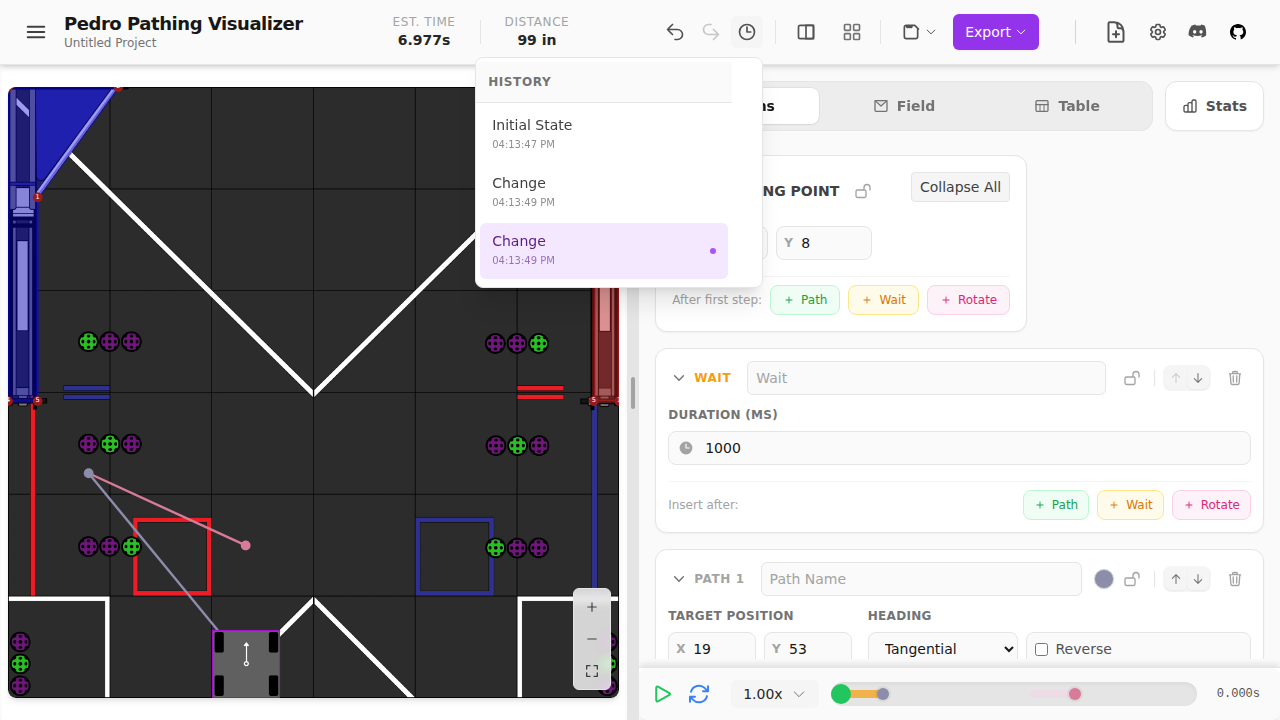
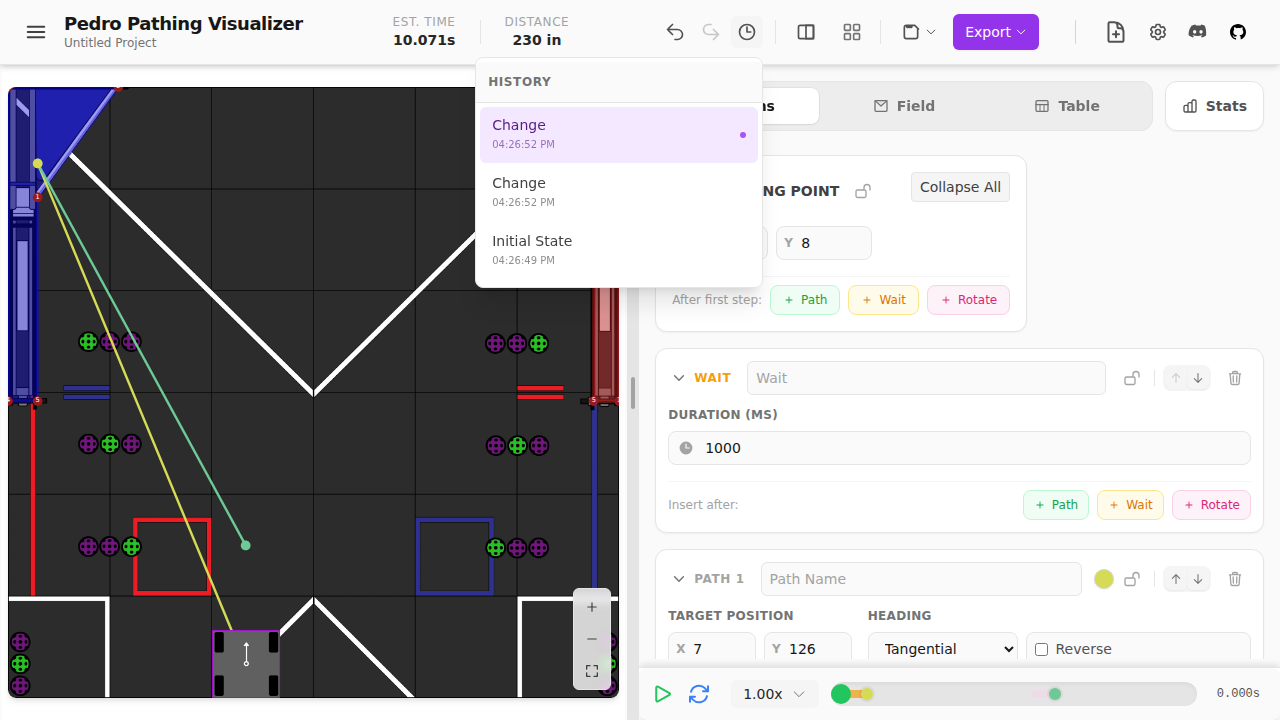
✨ Feature: History Dropdown & Contextual Undo/Redo
- Added History dropdown to Navbar with reversed chronological order (Newest Top)
- Added contextual descriptions to all history entries (e.g., "Moved Path 2", "Renamed Wait", "Add Path")
- Refactored HistoryList component for better UX
- Cleaned up bare `recordChange()` calls across the codebase

diff --git a/src/lib/components/history/HistoryList.svelte b/src/lib/components/history/HistoryList.svelte
@@ -21,7 +21,7 @@
 
   let listContainer: HTMLDivElement;
 
-  // Scroll to bottom when history changes
+  // Scroll to current when history changes
   $: if ($historyStore && listContainer) {
     tick().then(() => {
       const current = document.getElementById("history-current");
@@ -32,7 +32,7 @@
   }
 </script>
 
-<div class="flex flex-col h-full max-h-[400px] w-64">
+<div class="flex flex-col h-full max-h-[400px] w-full">
   <div class="p-3 border-b border-neutral-200 dark:border-neutral-700 bg-neutral-50 dark:bg-neutral-800">
     <h3 class="text-xs font-semibold text-neutral-500 dark:text-neutral-400 uppercase tracking-wider">
       History
@@ -44,9 +44,46 @@
     bind:this={listContainer}
   >
     {#if $historyStore}
-      <!-- PAST (Undo Stack) -->
-      {#each $historyStore.undoStack as entry, i}
-        {@const isActive = i === $historyStore.undoStack.length - 1}
+      <!-- FUTURE (Redo Stack) - Reversed to show [Oldest Future ... Newest Future] so Newest is bottom of this section?
+           Wait, stack is [C, B] (B is newer). We want C (Future), B (Future).
+           If we reverse redoStack, we get [B, C].
+           If user wants "Reverse Order" (Newest Top), we want:
+           Future B (Next redo)
+           Future C (Later redo)
+           Current A
+           Past...
+
+           redoStack has "most recently undone" at the END (top of stack).
+           So redoStack.pop() gives B.
+           So B is the "closest" future.
+           We want B to be just above A.
+
+           If list order is Newest at Top:
+           Future C
+           Future B
+           Current A
+           Past ...
+
+           redoStack: [C, B].
+           So we iterate redoStack (C, B).
+      -->
+      {#each $historyStore.redoStack as entry}
+        <button
+          class="w-full text-left px-3 py-2 rounded-md text-sm flex items-center justify-between group transition-colors hover:bg-neutral-100 dark:hover:bg-neutral-700 text-neutral-400 dark:text-neutral-500 opacity-70"
+          on:click={() => onJumpTo(entry)}
+        >
+          <div class="flex flex-col truncate min-w-0 flex-1">
+            <span class="truncate">{entry.description}</span>
+            <span class="text-[10px] opacity-60">{formatTime(entry.timestamp)}</span>
+          </div>
+        </button>
+      {/each}
+
+      <!-- PAST (Undo Stack) - Reversed so Current is Top -->
+      <!-- undoStack: [Initial, ... , Current] -->
+      <!-- We want Current first. -->
+      {#each [...$historyStore.undoStack].reverse() as entry, i}
+        {@const isActive = i === 0} <!-- First item in reversed list is current -->
 
         <button
           id={isActive ? "history-current" : undefined}
@@ -66,19 +103,6 @@
               class="w-1.5 h-1.5 rounded-full bg-purple-500 dark:bg-purple-400 ml-2 flex-shrink-0"
             ></div>
           {/if}
-        </button>
-      {/each}
-
-      <!-- FUTURE (Redo Stack) -->
-      {#each [...$historyStore.redoStack].reverse() as entry}
-        <button
-          class="w-full text-left px-3 py-2 rounded-md text-sm flex items-center justify-between group transition-colors hover:bg-neutral-100 dark:hover:bg-neutral-700 text-neutral-400 dark:text-neutral-500 opacity-70"
-          on:click={() => onJumpTo(entry)}
-        >
-          <div class="flex flex-col truncate min-w-0 flex-1">
-            <span class="truncate">{entry.description}</span>
-            <span class="text-[10px] opacity-60">{formatTime(entry.timestamp)}</span>
-          </div>
         </button>
       {/each}
     {/if}

diff --git a/src/lib/components/tabs/PathTab.svelte b/src/lib/components/tabs/PathTab.svelte
@@ -102,7 +102,7 @@
         ),
       ];
       repairedSequenceOnce = true;
-      recordChange?.();
+      recordChange?.("Repair Sequence");
     }
   }
 
@@ -215,7 +215,7 @@
       );
       sequence = newSequence;
       syncLinesToSequence(newSequence);
-      recordChange?.();
+      recordChange?.("Reorder Sequence");
     } else if (isMacroDrop) {
       const filePath = e.dataTransfer?.getData("application/x-pedro-macro");
       if (filePath) {
@@ -257,7 +257,7 @@
 
     collapsedSections.macros[macroId] = false;
     collapsedSections = { ...collapsedSections };
-    recordChange?.();
+    recordChange?.(`Add Macro ${name}`);
   }
 
   function handleDragEnd() {
@@ -365,7 +365,7 @@
     collapsedSections.lines.splice(idx, 1);
     collapsedSections.controlPoints.splice(idx, 1);
     collapsedEventMarkers.splice(idx, 1);
-    recordChange();
+    recordChange("Delete Path");
   }
 
   function addLine() {
@@ -392,7 +392,7 @@
     selectedLineId.set(newLine.id!);
     const newIndex = lines.findIndex((l) => l.id === newLine.id!);
     selectedPointId.set(`point-${newIndex + 1}-0`);
-    recordChange();
+    recordChange("Add Path");
   }
 
   function collapseAll() {
@@ -495,7 +495,7 @@
     sequence = [...sequence, wait];
     selectedPointId.set(`wait-${(wait as any).id}`);
     selectedLineId.set(null);
-    recordChange();
+    recordChange("Add Wait");
   }
 
   function addRotate() {
@@ -509,7 +509,7 @@
     sequence = [...sequence, rotate];
     selectedPointId.set(`rotate-${(rotate as any).id}`);
     selectedLineId.set(null);
-    recordChange();
+    recordChange("Add Rotate");
   }
 
   export function addWaitAtStart() {
@@ -633,7 +633,7 @@
 
     collapsedSections = { ...collapsedSections };
     collapsedEventMarkers = [...collapsedEventMarkers];
-    recordChange();
+    recordChange("Insert Path");
   }
 
   function syncLinesToSequence(newSeq: SequenceItem[]) {
@@ -704,7 +704,7 @@
     sequence = newSeq;
 
     syncLinesToSequence(newSeq);
-    recordChange?.();
+    recordChange?.("Reorder Sequence");
   }
 
   function isItemLocked(item: SequenceItem, lines: Line[]): boolean {
@@ -888,7 +888,7 @@
             const newSeq = [...sequence];
             newSeq.splice(sIdx, 1);
             sequence = newSeq;
-            recordChange?.();
+            recordChange?.("Delete Rotate");
           }}
           onInsertAfter={() => insertRotateAfter(sIdx)}
           onAddPathAfter={() => insertPathAfter(sIdx)}
@@ -908,7 +908,7 @@
             const newSeq = [...sequence];
             newSeq.splice(sIdx, 1);
             sequence = newSeq;
-            recordChange?.();
+            recordChange?.("Delete Macro");
           }}
           onInsertAfter={() => {
             // Not implemented for Macro currently in UI buttons, but interface requires it
@@ -931,7 +931,7 @@
             const newSeq = [...sequence];
             newSeq.splice(sIdx, 1);
             sequence = newSeq;
-            recordChange?.();
+            recordChange?.("Delete Wait");
           }}
           onInsertAfter={() => {
             const newSeq = [...sequence];
@@ -943,7 +943,7 @@
               locked: false,
             });
             sequence = newSeq;
-            recordChange?.();
+            recordChange?.("Insert Wait");
           }}
           onAddPathAfter={() => insertPathAfter(sIdx)}
           onAddRotateAfter={() => insertRotateAfter(sIdx)}

diff --git a/src/lib/components/sections/ControlPointsSection.svelte b/src/lib/components/sections/ControlPointsSection.svelte
@@ -20,7 +20,7 @@
   export let line: Line;
   export let lineIdx: number;
   export let collapsed: boolean;
-  export let recordChange: () => void;
+  export let recordChange: (description?: string) => void;
 
   $: snapToGridTitle =
     $snapToGrid && $showGrid ? `Snapping to ${$gridSize} grid` : "No snapping";
@@ -110,7 +110,7 @@
     );
 
     line.controlPoints = newPoints;
-    recordChange();
+    recordChange("Reorder Control Points");
 
     handleDragEnd();
   }
@@ -131,7 +131,7 @@
     newPoints[targetIndex] = temp;
 
     line.controlPoints = newPoints;
-    recordChange();
+    recordChange("Reorder Control Points");
   }
 </script>
 
@@ -175,7 +175,7 @@
             y: _.random(36, 108),
           },
         ];
-        recordChange();
+        recordChange("Add Control Point");
       }}
       class="text-xs font-medium text-blue-600 dark:text-blue-400 hover:text-blue-700 dark:hover:text-blue-300 flex items-center gap-1 bg-blue-50 dark:bg-blue-900/20 px-2 py-1 rounded transition-colors"
       title="Add Control Point"
@@ -312,7 +312,7 @@
                   let _pts = line.controlPoints;
                   _pts.splice(idx, 1);
                   line.controlPoints = _pts;
-                  recordChange();
+                  recordChange("Remove Control Point");
                 }}
                 disabled={line.locked}
                 title="Remove Control Point"

diff --git a/src/lib/components/sections/MacroSection.svelte b/src/lib/components/sections/MacroSection.svelte
@@ -24,7 +24,7 @@
   export let onMoveDown: () => void;
   export let canMoveUp: boolean = true;
   export let canMoveDown: boolean = true;
-  export let recordChange: (() => void) | undefined = undefined;
+  export let recordChange: ((description?: string) => void) | undefined = undefined;
 
   $: isSelected = $selectedPointId === `macro-${macro.id}`;
 
@@ -39,7 +39,7 @@
   }
 
   function handleBlur() {
-    if (recordChange) recordChange();
+    if (recordChange) recordChange(`Update Macro ${macro.name || "Name"}`);
   }
 
   let showTransforms = false;
@@ -129,7 +129,7 @@
         aria-label={macro.locked ? "Unlock Macro" : "Lock Macro"}
         on:click|stopPropagation={() => {
           macro.locked = !macro.locked;
-          if (recordChange) recordChange();
+          if (recordChange) recordChange("Update Macro Event");
         }}
         class="p-1.5 rounded-md hover:bg-neutral-100 dark:hover:bg-neutral-700 text-neutral-400 transition-colors"
       >
@@ -283,7 +283,7 @@
           <div transition:slide={{ duration: 200 }} class="mt-2">
             <MacroTransformControls
               bind:macro
-              onUpdate={() => recordChange && recordChange()}
+              onUpdate={() => recordChange && recordChange("Update Macro Parameter")}
             />
           </div>
         {/if}

diff --git a/src/lib/components/sections/RotateSection.svelte b/src/lib/components/sections/RotateSection.svelte
@@ -24,7 +24,7 @@
   export let onMoveDown: () => void;
   export let canMoveUp: boolean = true;
   export let canMoveDown: boolean = true;
-  export let recordChange: (() => void) | undefined = undefined;
+  export let recordChange: ((description?: string) => void) | undefined = undefined;
 
   $: isSelected = $selectedPointId === `rotate-${rotate.id}`;
   $: linked = isRotateLinked(sequence, rotate.id);
@@ -52,7 +52,8 @@
   }
 
   function handleBlur() {
-    if (recordChange) recordChange();
+    if (recordChange) recordChange(`Update Rotate ${rotate.name || "Name"}`);
+    if (recordChange) recordChange(`Update Rotate Degrees`);
   }
 
   function handleDegreesChange(e: Event) {
@@ -182,7 +183,7 @@
       <button
         on:click|stopPropagation={() => {
           rotate.locked = !rotate.locked;
-          if (recordChange) recordChange();
+          if (recordChange) recordChange("Update Rotate Event");
         }}
         class="p-1.5 rounded-md hover:bg-neutral-100 dark:hover:bg-neutral-700 text-neutral-400 transition-colors"
         title={rotate.locked ? "Unlock Rotate" : "Lock Rotate"}

diff --git a/src/lib/components/sections/WaitSection.svelte b/src/lib/components/sections/WaitSection.svelte
@@ -27,7 +27,7 @@
   export let onMoveDown: () => void;
   export let canMoveUp: boolean = true;
   export let canMoveDown: boolean = true;
-  export let recordChange: (() => void) | undefined = undefined;
+  export let recordChange: ((description?: string) => void) | undefined = undefined;
 
   $: isSelected = $selectedPointId === `wait-${wait.id}`;
   $: linked = isWaitLinked(sequence, wait.id);
@@ -55,7 +55,8 @@
   }
 
   function handleBlur() {
-    if (recordChange) recordChange();
+    if (recordChange) recordChange(`Update Wait ${wait.name || "Name"}`);
+    if (recordChange) recordChange("Update Wait Duration");
   }
 
   function handleDurationChange(e: Event) {
@@ -189,7 +190,7 @@
         aria-label={wait.locked ? "Unlock Wait" : "Lock Wait"}
         on:click|stopPropagation={() => {
           wait.locked = !wait.locked;
-          if (recordChange) recordChange();
+          if (recordChange) recordChange("Update Wait Event");
         }}
         class="p-1.5 rounded-md hover:bg-neutral-100 dark:hover:bg-neutral-700 text-neutral-400 transition-colors"
       >

diff --git a/src/lib/components/sections/PathLineSection.svelte b/src/lib/components/sections/PathLineSection.svelte
@@ -28,7 +28,7 @@
   export let onInsertAfter: () => void;
   export let onAddWaitAfter: () => void;
   export let onAddRotateAfter: () => void;
-  export let recordChange: () => void;
+  export let recordChange: (description?: string) => void;
   export let onMoveUp: () => void;
   export let onMoveDown: () => void;
   export let canMoveUp: boolean = true;
@@ -179,7 +179,7 @@
             class:text-green-500={hoveredLinkId === line.id}
             disabled={line.locked}
             on:input={handleNameInput}
-            on:blur={() => recordChange && recordChange()}
+            on:blur={() => recordChange && recordChange(`Rename Path to "${line.name}"`)}
             on:click|stopPropagation
           />
           {#if line.id && isLineLinked(lines, line.id)}
@@ -396,7 +396,7 @@
             on:change={() => (lines = [...lines])}
             on:commit={() => {
               lines = [...lines];
-              recordChange();
+              recordChange("Change Path Color");
             }}
           />
         </div>

diff --git a/src/utils/projectLifecycle.ts b/src/utils/projectLifecycle.ts
@@ -36,7 +36,7 @@ export function resetPath() {
  * @param recordChange Callback to record the change in history
  */
 export async function handleResetPathWithConfirmation(
-  recordChange?: () => void,
+  recordChange?: (description?: string) => void,
 ) {
   // Autosave on Close Logic
   const settings = get(settingsStore);
@@ -86,6 +86,6 @@ export async function handleResetPathWithConfirmation(
 
   if (confirm(message)) {
     resetPath();
-    if (recordChange) recordChange();
+    if (recordChange) recordChange("Reset Project");
   }
 }
